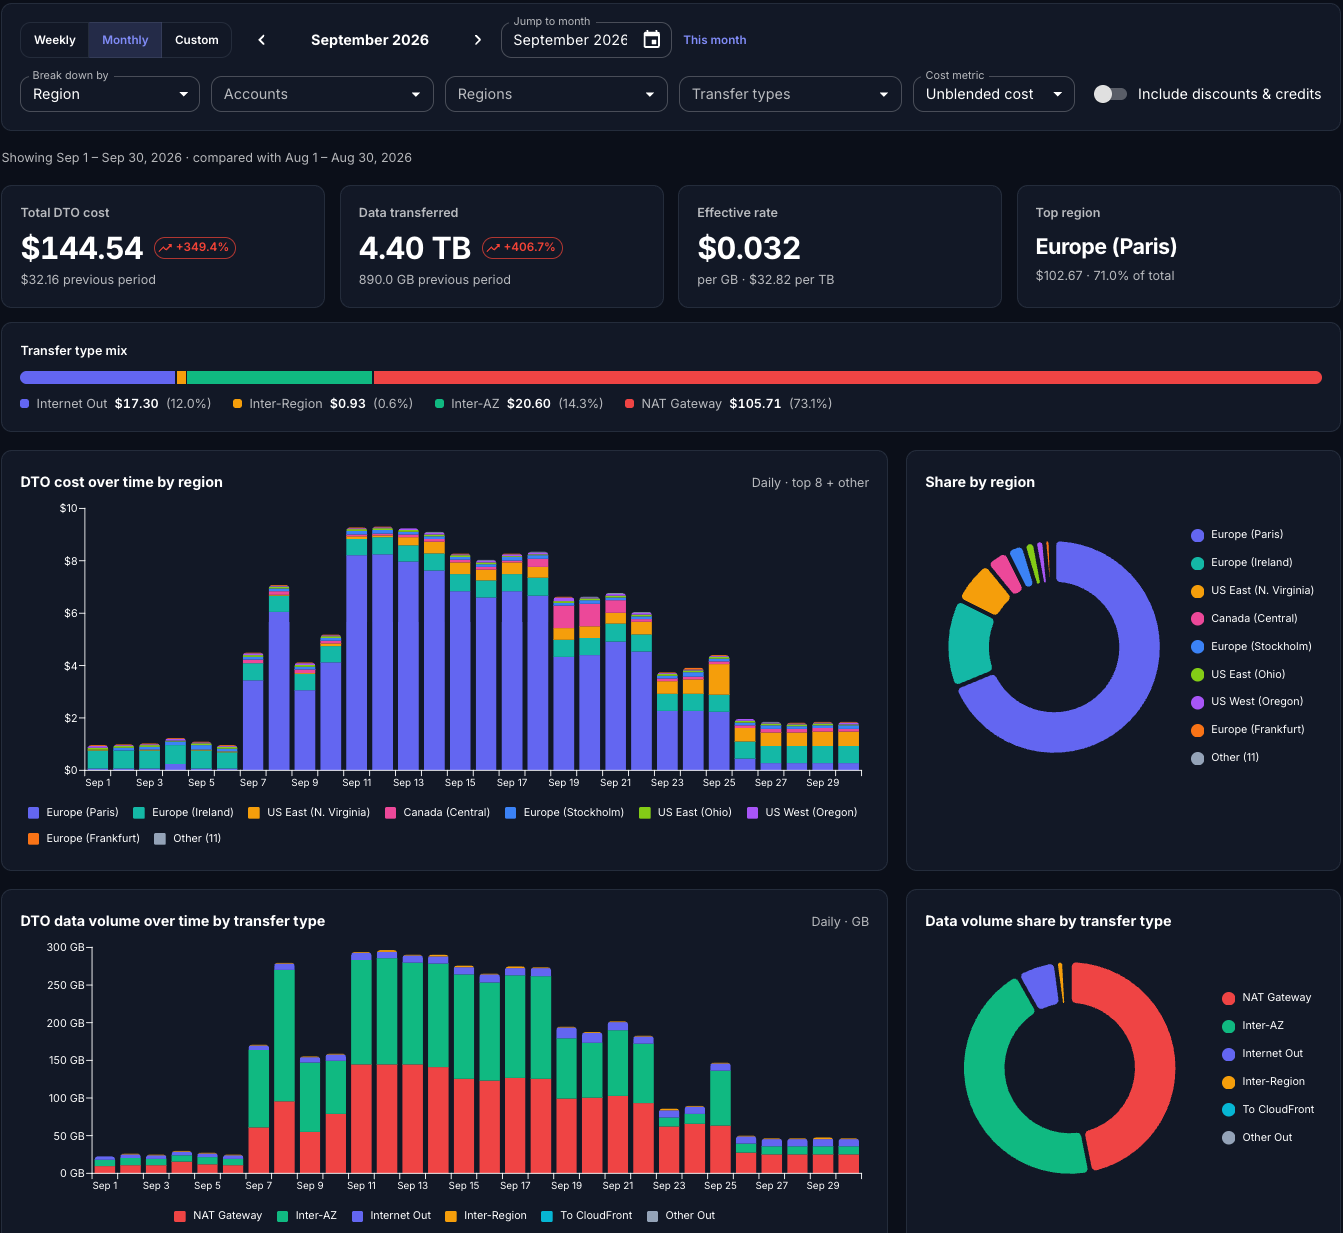
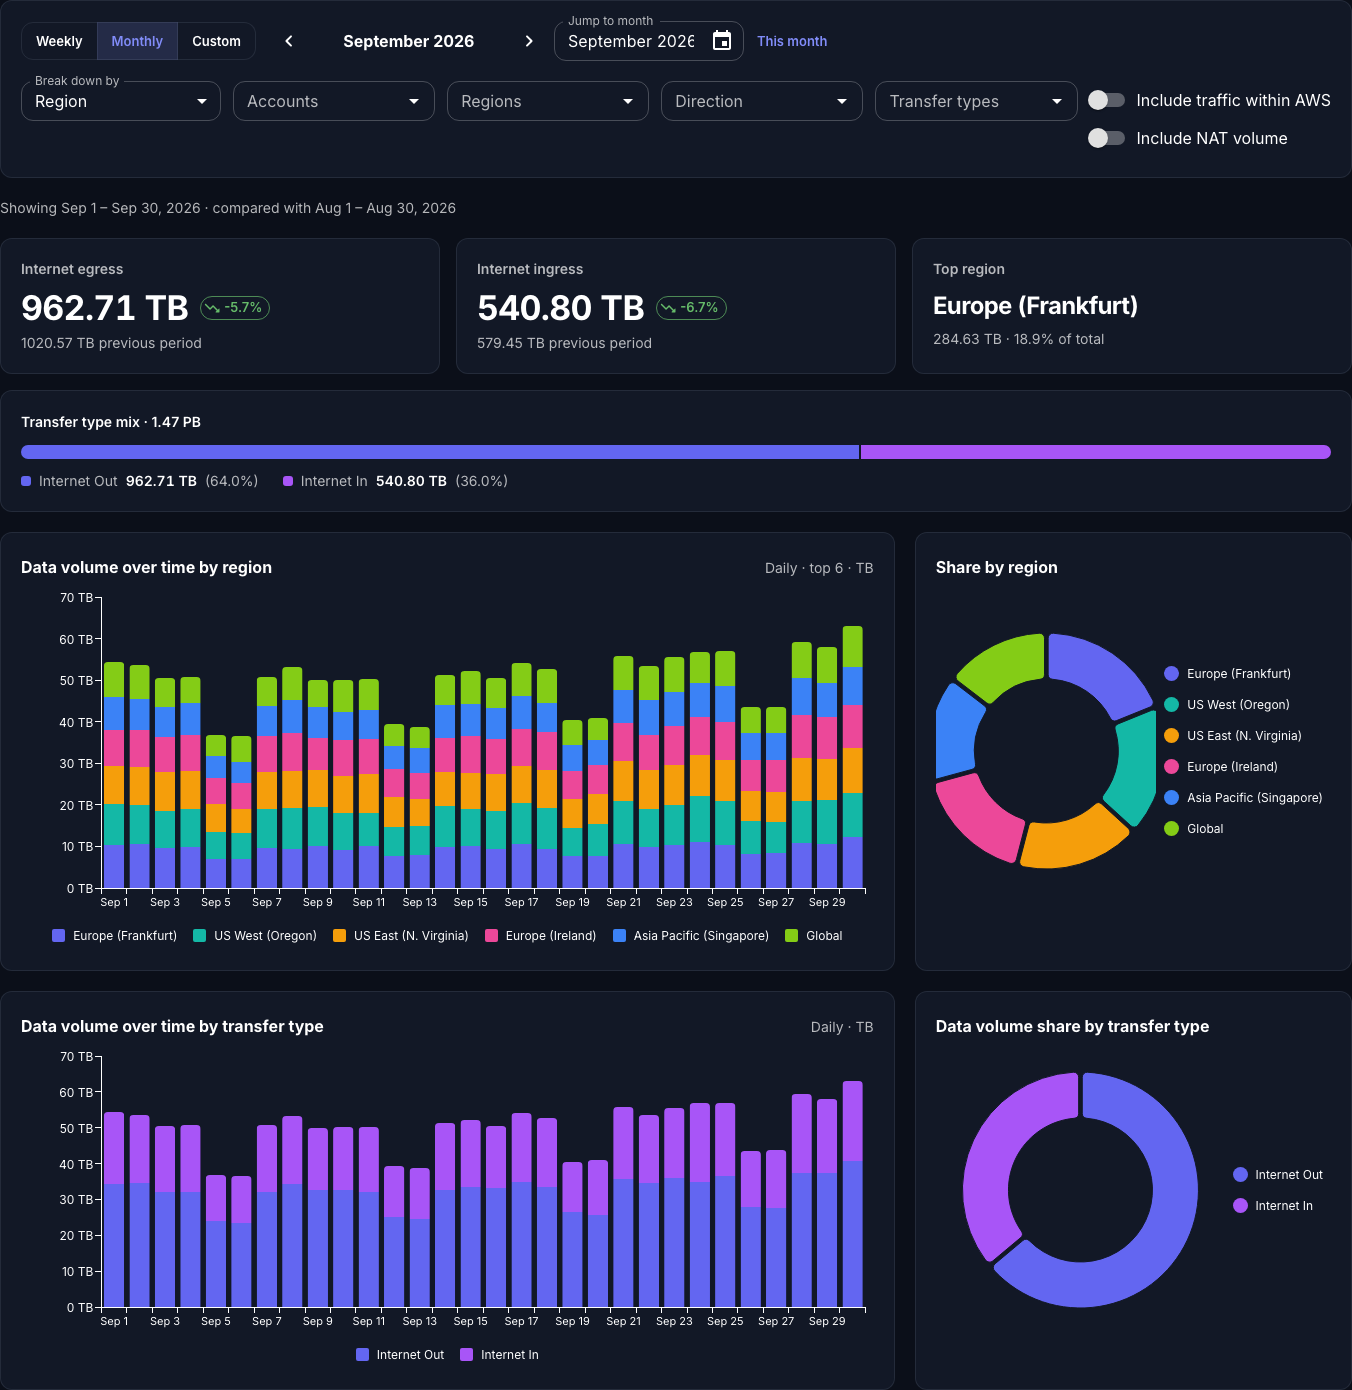
Update README screenshot for the volume-only, internet-by-default view

diff --git a/README.md b/README.md
@@ -7,7 +7,7 @@ A web app that totals **AWS data transfer volume** (GB) for a week, a month or a
 - **License:** MIT (see [LICENSE](LICENSE))
 - **Packaging:** one Docker image (FastAPI serves both the API and the built UI), published to GHCR when a release is tagged
 
-![DTO Explorer dashboard: KPIs, data volume over time, share by region and by transfer type](docs/dto-explore.png)
+![DTO Explorer dashboard: internet egress and ingress KPIs, data volume over time and share by region and by transfer type (mock data)](docs/dto-explore.png)
 
 ## Contents
 - [Features](#features)
